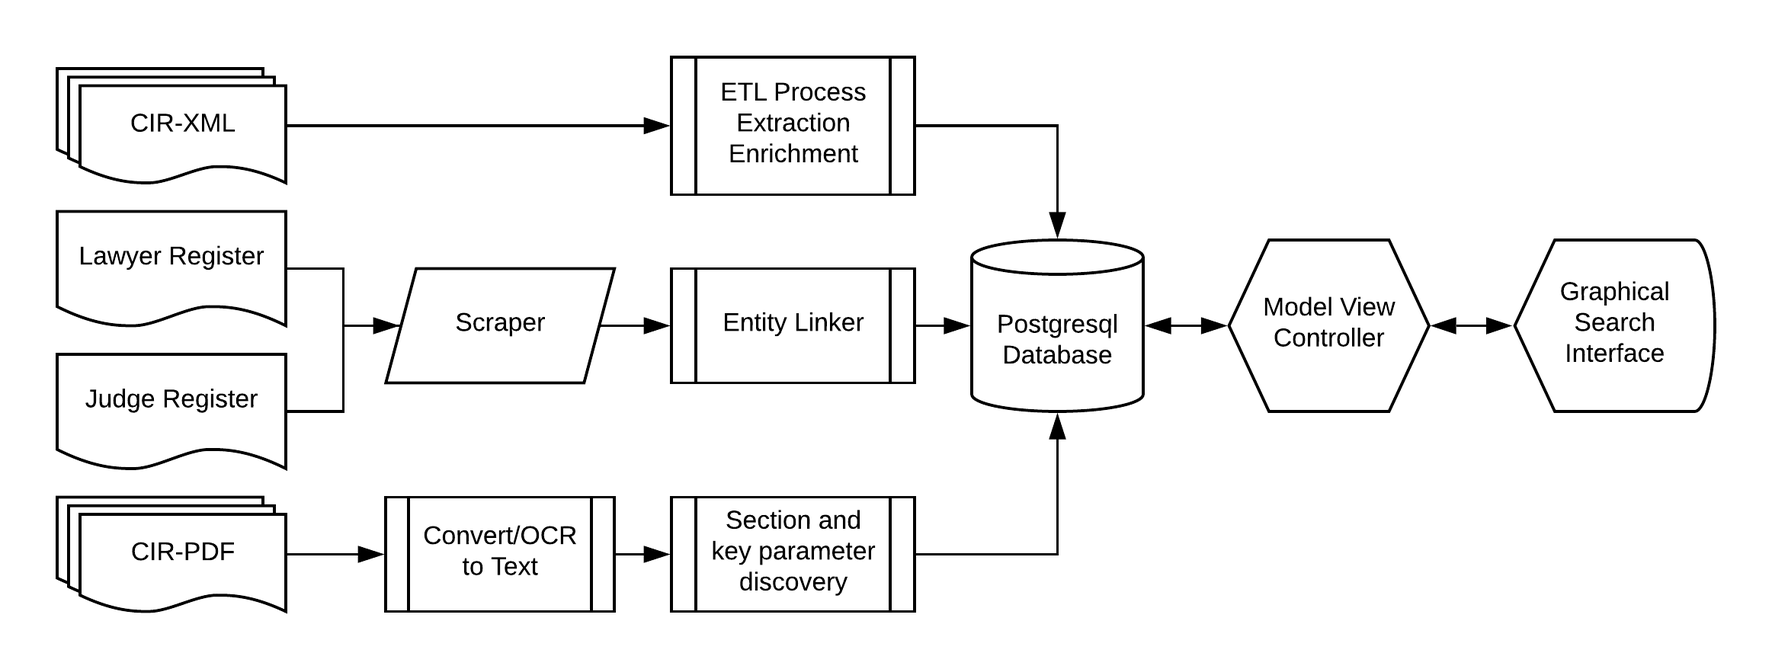
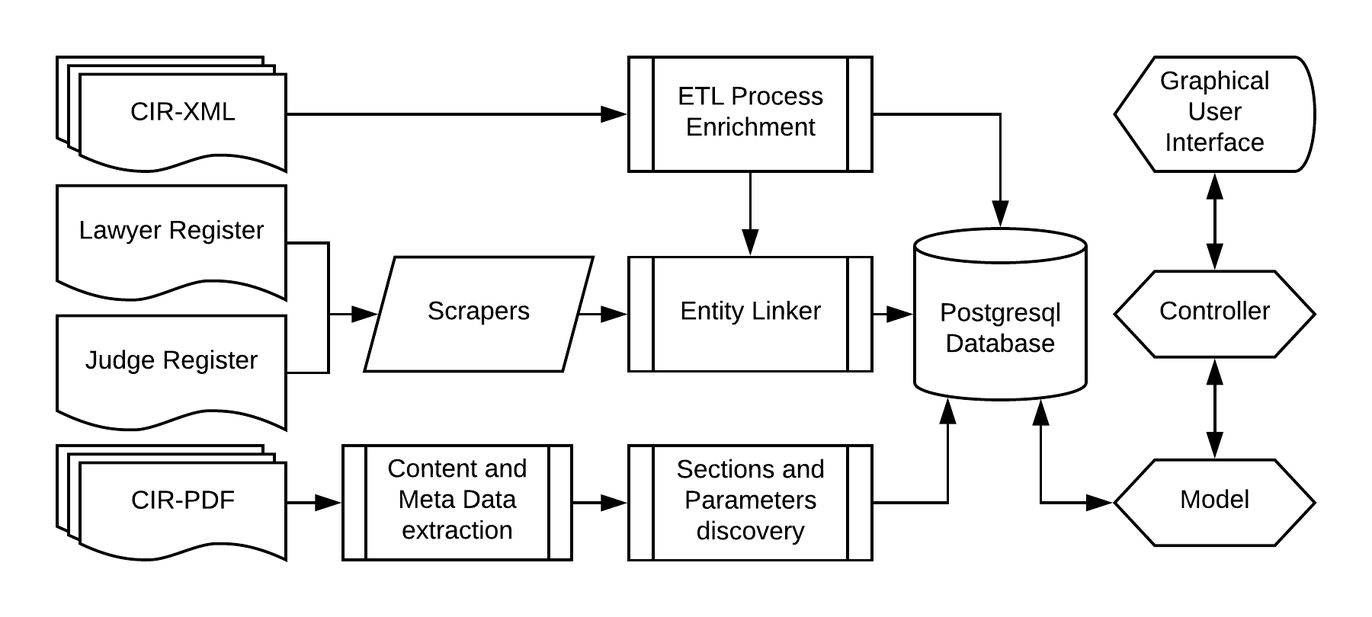
add entity linking

diff --git a/docs/thesis_tex/thesis/methodology.tex b/docs/thesis_tex/thesis/methodology.tex
@@ -1,8 +1,8 @@
 \section{Methodology}
-\subsection{Description of the data}
+\subsection{Description of data sources}
 The data used by the information system is sourced from three public registers:
 \begin{enumerate}
-	\item The Central Insolvency Register \textit{Centraal Insolventie Register}
+	\item The Central Insolvency Register (\textit{Centraal Insolventie Register or CIR})
 	\item The Register of lawyers (\textit{NOvA's Tableau}) 
 	\item The Register of ancillary positions of judges. (\textit{Register van nevenfuncties van rechters}) 
 \end{enumerate}
@@ -11,10 +11,10 @@ The CIR provides the bulk of the data. The other two registers are used for the 
 
 \subsubsection{Central Insolvency Register}
 \paragraph{Introduction}
-The \textit{Centrale Insolventieregister (CIR)} \cite{rechtspraak:1} was initiated in 2005 and contains data of insolvencies, suspension of payments and private debt restructuring. We only focus on the insolvency data. Data is available until 6 months after the ending of the insolvency. 
+The CIR \cite{rechtspraak:1} contains company insolvency data supplied by the courts and the administrators. Courts are obliged to supply the insolvency data and free consultation of thereof according to the insolvency law, article 19 \cite{law:1}. CIR started the register on the 1st of January 2005 and retains case related data until six months after the ending of the insolvency. 
 
 \paragraph{SOAP web service}
-CIR operates a web service using the SOAP 1.2 protocol which returns information in XML format upon HTTP request. Using the web service we can request the new and updated entities of:
+CIR operates a web service using the HTTP SOAP 1.2 protocol which returns information in XML format. Using the web service we can request the new and updated entities of:
 
 \begin{itemize}
 	\item Insolvents
@@ -30,10 +30,10 @@ CIR operates a web service using the SOAP 1.2 protocol which returns information
 \caption{Insolvency entity relations.}
 \end{figure}
 
-The CIR XML data is structured: the entities are connected in the XML response by composition as defined in XSD schemas provided by CIR. Unique identifiers exist for the Insolvent, Publication and Report entities. An ETL (Extract Transform Load) component is build to load these entities into normalized SQL tables.
+The returned XML data is structured: the entities are connected in the XML response by composition as defined in XSD schemas provided by CIR. Unique identifiers exist for the Insolvent, Publication and Report entities and they can easily be stored in normalized SQL tables. 
 
 \paragraph{Database normalization}
-Not all the data is normalized. The entities Judges and Administrators have no identifiers but consist of free text fields for their name (parts). This leads to unwanted duplication as names can be written in many different forms and typos can be introduced, e.g. one judge's name appears as:
+Not all the data is normalized. The entities Judges and Administrators have no identifiers but consist of free text fields for their name parts. This leads to unwanted duplication as names can be written in many different forms and typos can be introduced, e.g. one judge's name appears as:
 
 \begin{itemize}
 \item "mr. W.J. Geurts - de Veld"
@@ -46,26 +46,52 @@ Not all the data is normalized. The entities Judges and Administrators have no i
 \item "W.J.Geurts-de Veld"
 \end{itemize}
 
-We need to define so-called master data for judges and administrators and resolve the duplicated names to the master data records. The two data sources in the sections \ref{NOvA Tableau} and \ref{Nevenfuncties Rechters} are chosen for this purpose.
+We need to define so-called master data for judges and administrators containing the real world entities. The two data sources in the sections \ref{NOvA Tableau} and \ref{Nevenfuncties Rechters} are chosen for this purpose. CIR entity names are first normalized for de-duplication and are subsequently linked to the master data records on their normalized name. 
 
 \paragraph{PDF report web service}
-A second web service operated by CIR provides Administrator Reports in PDF format using a simple HTTP GET request. There are two types of reports: 
+A second web service operated by CIR provides Administrator Reports in PDF format by HTTP request. There are two types of reports: 
 \begin{enumerate}
 \item progress reports
 \item financial attachments
 \end{enumerate}
-Recofa has published templates for both report types\cite{rechtspraak:3}. The reports hold much of the unstructured data.
+Recofa has published templates for both report types\cite{rechtspraak:3}. These reports hold much of the unstructured data.
+
+\paragraph{CIR data contents}
+Table \ref{table:cir_contents} shows the content of the CIR register data as of date [2018-08-12] and the average monthly size of new additions.
+
+\begin{table}[h]
+\caption{Actual number of records and monthly average additions per entity.}
+\centering
+\begin{tabular}{l r r}
+\hline\hline
+Entity & no. of records & monthly add.\\
+\hline
+Insolvent & 17,331 & 280 \\
+Report & 146,865 & 4408 \\
+... progress report & 87,430 &  \\
+... financial attachment. & 56,611 &  \\
+Publication & 37,031 & 1447 \\
+Administrator (distinct) & 2329 & \\
+Judge (distinct) & 451 & \\
+Court & 11 & \\
+\hline
+\end{tabular}
+\label{table:cir_contents}
+\end{table}
+
+The number of current defaults is about the lowest of the century [ref] [graph of declining defaults]
 
 \subsubsection{Register of lawyers, NOvA Tableau}\label{NOvA Tableau}
 
-The NOvA tableau is the official register for lawyers and maintained by the \textit{Nederlandse Orde van Advocaten (NOvA)}\cite{nova:1}. NOvA offers an on-line search form where key word search and filters can be applied to search for a lawyer. By looking at the network traffic we see than the form is powered by a REST API returning JSON data which we can employ directly. This data source is used to collect the master data for Administrators.
+The NOvA tableau is the official register for lawyers and maintained by the \textit{Nederlandse Orde van Advocaten (NOvA)}\cite{nova:1}. Lawyers are obliged to be registered in the tableau by the lawyer's law (\textit{advocatenwet}, article 1 \cite{law:2}). NOvA offers an on-line search form where key word search and filters can be applied to search for a lawyer. This data source is used to collect the master data for Administrators. 
 
-\subsubsection{Register of judges, Nevenfuncties Rechters}\label{Nevenfuncties Rechters}
+\subsubsection{Register of judges, Nevenfuncties van rechters}\label{Nevenfuncties Rechters}
 
-The Register for ancillary positions for judges is made available by \textit{de Rechtspraak}\cite{rechtspraak:2}. It offers an on line form and returns the name, current and historical occupation and ancillary positions. Again, this form is powered by a REST API returning JSON which we can employ directly. This data source is used to collect the master data for Judges.
+The Register for ancillary positions for judges is made available by \textit{de Rechtspraak}\cite{rechtspraak:2}. It offers an on line form and returns the name, current and historical occupation and ancillary positions. This data source is used to collect the master data for Judges.
 
 
-\subsection{Description of the system}
+\subsection{Description of the system and data flow}
+\subsubsection{System components}
 Figure \ref{System overview} gives an overview of the system components for extracting, enriching and integrating the sourced data and making the resulting structured and higher level information available to the user.
 
 \begin{figure}[h]
@@ -73,13 +99,116 @@ Figure \ref{System overview} gives an overview of the system components for extr
 \caption{System overview.}\label{System overview}
 \end{figure}
 
-\paragraph{The ETL process} This component extracts the entities and selected data fields from the XML. The data is enriched and annotated after which it is stored in the Postgresql database. An example of the enrichment are the start and end date of the insolvency which is not directly stated in the insolvency case XML.
+\paragraph{The ETL process and Enrichment} This component extracts the entities with selected data fields from the XML. The data is enriched and annotated after which it is stored in the Postgresql database. An example of the enrichment are the start and end date of the insolvency which are derived from court publications.
 
-\paragraph{The Entity Linker} This component is responsible for linking judges and administrators in CIR to real life entities found in the judge and lawyer registers. It does this by normalization of the CIR names and resolving them to the register entities using similarity functions. Unresolved entities are linked manually to establish complete linkage. Established links are stored in an association table. After an initial run the register scrapers are called upon only when new judge or administrator entries appear in CIR.
+\paragraph{The Entity Linker} This component is responsible for linking judges and administrators in CIR to real life entities found in the judge and lawyer registers. It does this by normalization of the CIR names and resolving them to the register entities using similarity functions. Unresolved entities can be linked manually to guarantee completeness. Established links are stored in an association table. After an initial run, the register scrapers are called upon only when new judges or administrators entries appear in CIR.
 
 \paragraph{PDF processors}
-PDF reports are processed to extract text content and meta data. In a subsequent process the text sections as defined in the progress report and key data parameter are discovered. These fields are available for search later on.
+PDF reports are processed to extract the textual content and meta data. The text sections, as defined in the progress report template, and key data parameter are discovered in a subsequent process. This data is available for search later on.
 
-\paragraph{Model-View-Controller}
-This is a well established pattern of three subcomponents working together. The user operates a graphical interface prototyped in Jupyter notebooks to query the data or interact with data visualisations or tables. This is the view in the MVC component. On user command, the controller asks the model to prepare the data and returns the data to the view.
+\paragraph{Model-View-Controller (MVC)}
+This is a well established pattern of three subcomponents working together for a GUI. The user operates a graphical interface, prototyped in Jupyter notebooks, to query the data or interact with data visualisations or tables. The interface is the View in the MVC component. On user command, the Controller asks the Model to prepare the necessary data and then passes this data to the View to update the interface.
+
+
+\subsection{Implementation challenges}
+\subsubsection{Entity De-duplication, Scraping and Linking}
+\paragraph{Deduplication: normalizing names}
+CIR provides administrator names in four parts: title, initials, middle part and family name. 
+
+\textbf{The initials} were normalized into single characters using periods and no spaces. In Dutch, initials for names like \textit{Theodoor} and \textit{Christiaan} are written with two or three characters as \textit{Th.} or \textit{Chr.}. These names are derived from the Greek where the initial \textit{Th(eta)} for example is written as one character. Initials for double names like \textit{Albert-Jan} may be written as \textit{A-J.} or \textit{A.-J.}. 
+
+\textbf{The middle part}, e.g. 'van der' or 'ter' was sometimes supplied in the middle part field and sometimes in the family name (and sometimes in both). To normalize the middle part it was merged into the family name making sure it did not appear twice.
+
+\textbf{The family name} was stripped from academic and noble (not uncommon in this profession) titles. Misplaced initials and CIR specific comments were removed. Maiden names are connected to the surname with a hyphen and no spaces.
+
+Furthermore, all parts are made lower case, surrounding whitespace characters are stripped, accents are removed and multiple spaces are replaces with a single space. 
+
+De-duplication by normalizing the administrator names reduced the number of distinct administrator names from 2329 to 1559, a 33\% reduction.
+\\\\
+Judge names are provided in a single field. This sometimes leads to initials or a middle name part that is stuck together to the family name and was separated using regexm e.g. in 'C. vanSteenderen' and 'mr. W.J.Geurts-de Veld'. CIR often adds the court between parenthesis which was also removed in the normalization.
+
+De-duplication by normalizing the judge names reduced the number of distinct judge names from 565 to 277, a 51\% reduction.
+
+\paragraph{Administrator name scraping}
+NOvA unfortunately does not provide complete lists of registered lawyers to which we could link the administrators. Instead we link the administrator by using the site's search form. An underlying REST API returning JSON data was discovered which was used instead of the form. The API (or form) can not handle initials or stop words as 'de' and 'van' and only the family name without stop words was used. The best candidate in the search results, which are sorted on the relevance provided by NOvA, is found by (partially) matching the initials until a match is found. The API enables the use of filters and we filter from narrow to broad until a candidate is found, filtering on: 
+\begin{enumerate}
+\item{legal specialism: administrator}
+\item{legal branch: insolvency law}
+\item{no filter}
+\end{enumerate}
+
+NOvA only supplies the actual lawyer register but CIR also lists administrators previously working on a case therefore a substantial amount of administrators cannot be linked. Another website, www.advocatenzoeken.nl that sources data from NOvA but keeps historical data was scraped as well to complement NOvA.
+
+\paragraph{Administrator name linking}
+From the normalized name list we linked 73\% to NOVa registered lawyers and another 18\% administrators from the www.advocatenzoeken.nl site. The remaining 10\% unfound names are linked to a special 'unknown' lawyer.
+
+\begin{table}[h]
+\caption{Administator entity linking results}
+\centering
+\begin{tabular}{l r r r}
+\hline\hline
+Source & no. linked & correct & incorrect\\
+\hline
+NOvA & 1134 & 1133 & 1\\
+AdvocatenZoeken & 280 & 279 & 1 \\
+Not found & 149 &&\\
+\hline
+Total & 1563 & 1412 &\\
+\hline
+\end{tabular}
+\label{table:administrator_linking}
+\end{table}
+
+Correctness is assumed when the names match. When an obvious typo is found in the family name. When the initials either match, or are contained in the master record or are permutated or are missing. 
+
+[discuss not found results: common name, place in name]
+
+\paragraph{Judge name scraping}
+The CIR register for ancillary functions for judges was scraped for judges from courts and higher courts. The total set contains 3691 judges and should be a superset of active case judges. The website was driven by the Angular javascript framework and could not easily be scraped with simple HTTP requests. Selenium was used to mimic user browsing behaviour to invoke the javascript. 
+
+\paragraph{Judge entity linking}
+A judge is linked by to a judge master record with the most similar normalized name where similarity was calculated using the Levensthein or edit distance. 88\% of the normalized names were matched. 4 of the incorrectly 12\% matched names could be set manually and the remaining 8\% was linked to a special 'unknown' judge.
+
+
+\begin{table}[h]
+\caption{Judge entity linking results}
+\centering
+\begin{tabular}{l r r r}
+\hline\hline
+Source & no. linked & correct & incorrect\\
+\hline
+Ancillary positions register & 277 & 246 & 32\\
++Manual lookup of the 32 &   & 10 & -10\\
+\hline
+Total & 277 & 256 & 22\\
+\hline
+\end{tabular}
+\label{table:judge_linking}
+\end{table}
+
+Correctness is defined similar to the administrator normalized name correctness.
+
+[discuss not found (initially) results: maiden name, not a judge anymore]
+
+\subsubsection{PDF content extraction}
+The PDF reports can be split into two types depending on how the PDF was created:
+\begin{enumerate}
+\item Scanned from paper using a scanner or copier.
+\item Converted by software from another format.
+\end{enumerate}
+
+\paragraph{Scanned PDFs}
+Scanned PDFs contain images only. To convert the images to text we used the Ghostscript library for image extraction and the Tesseract OCR engine for the character recognition. Tesseract supports the Dutch language which is paramount to our application. It is very important to supply Tesseract with good quality images. We used the Ghostscript settings of a \emph{tiffgray} output device with a \emph{300 DPI} resolution. 
+
+\paragraph{Converted PDFs}
+Converted PDF content can be extracted with a number of packages such as PDFMiner, PyPDF2, pyPoppler and pdftotext. We chose the latter after comparison because it maintains the layout which is important for section and parameter extraction and being build in C++ it is very fast.
+
+\paragraph{Third type}
+A third type appeared: PDFs that were scanned and subsequently OCR-ed by a copier. They contain both text and images. The OCR quality is often poor. We retried re-OCR-ing the images with Tesseract which solved some errors but introduced others. Meta data about a.o. the scanner type was obtained which could improve post-process text extraction in future work.
+
+
+\subsubsection{PDF report section and parameter extraction}
+[todo]
+
+
 

diff --git a/docs/thesis_tex/thesis/abstract.tex b/docs/thesis_tex/thesis/abstract.tex
@@ -1,11 +1,11 @@
 \begin{abstract}
-When a company is declared bankrupt by the court, a court committee appoints a administrator to settle the bankruptcy. The administrator's task is to cash in company's estate and use it to settle the creditors claims. A court's judge must supervise the administrator in order to to act in the best interest of the creditors.
+When a company is declared bankrupt by the court, a court committee appoints a administrator to settle the bankruptcy. The administrator's task is to cash in the company's estate and use it to settle the creditors claims. A court's judge must supervise the administrator in order to to act in the best interest of the creditors.
 
-The supervisory function of the judge, the conflict of interest between the administrator and creditors and the appointment process of the administrator are processes which have been the subject of research\cite{boluk_2011}, about which media articles\cite{dennis_meneer_2018:1, dennis_meneer_2017:1, jan-hein_strop_2015:1} have appeared and which have led to legal proceedings. The involved parties ask for more transparency and information about these processes. Access for the general public and independent media to this process information could provide an extra check and thus further improvement of processes.
+The supervisory function of the judge, the conflict of interest between the administrator and creditors and the appointment process of the administrator are processes which have been the subject of research\cite{boluk_2011}, about which media articles have appeared \cite{dennis_meneer_2018:1, dennis_meneer_2017:1, jan-hein_strop_2015:1} and which have led to legal proceedings. The involved parties ask for more transparency and information about these processes. Access for the general public and journalists to this process information could provide an extra check and thus further improvement of processes.
 
-The Dutch government started a transparency program in 2005 publishing insolvency data\cite{rechtspraak:1}. It provides an on-line search form to retrieve a single insolvency case and provides open data sources with technical APIs that provide court publications and administrator reports. However, the information from a single insolvency case is limited, the report information is unstructured and not all interested parties can deal with the raw data of the APIs. Instead of open data, there is a need for open analysis to enable an 'armchair audit'\cite{o_leary_2015} of insolvency processes to answer their questions.
+The Dutch government started in 2005 publishing insolvency data\cite{rechtspraak:1} according to the insolvency law \cite{law:1}. It provides an on-line search form to retrieve a single insolvency case and provides open data sources with technical APIs that provide court publications and administrator reports. However, the information from a single insolvency case is limited, the report information is unstructured and not all interested parties can deal with the raw data APIs. Instead of open data, there is a need for open analysis to enable an 'armchair audit'\cite{o_leary_2015} of insolvency processes to answer their questions.
 
-In this thesis a prototype of an information system will be presented that enables the audit of insolvency processes for non-technical stakeholders. The system processes large amounts of structured and unstructured data of insolvency processes using open and publicly available data sources. From this data, the system builds and annotates a fully linked, clean entity structure of administrator reports, court publications, insolvencies, trustees and judges. Unstructured report data is made searchable at multiple levels and process data is uncovered. 
+In this thesis a prototype of an information system will be presented that enables the audit of insolvency processes for non-technical stakeholders. The system processes large amounts of structured and unstructured data of insolvency processes using open and publicly available data sources. From this data, the system builds and annotates a fully linked, clean entity structure of insolvents, administrators, judges, courts as well as administrator reports and court publications. Unstructured administrator report data is made searchable at multiple levels and process data is uncovered. 
 
-We show that the system can provide valuable insights to the interested party who can use a non-technical interface to investigate the insolvency processes and answer specific questions. 
+We describe the implementation challenges and show that the system can provide new insights to the interested party who can use a non-technical interface to investigate the insolvency processes and answer specific questions. 
 \end{abstract}

diff --git a/docs/thesis_tex/thesis/introduction.tex b/docs/thesis_tex/thesis/introduction.tex
@@ -1,31 +1,36 @@
 \section{Introduction}
-We propose an information system on insolvency processes
-- Introduction to the parties involved in an insolvency
-- Definition of the Persona representing the involved parties
-- Information needs of the Persona
+In this thesis we demonstrate an information system that provides better transparency of insolvency processes by taking in large collections of open structured and unstructured government data and that by deriving higher level information, linking entities and applying information retrieval techniques can answer outstanding questions of the different parties involved.
 
+\begin{itemize}
+\item Introduction to the phenomenon of arm chair auditing and the learned lessons.
+\item Introduction to the open data program of the government and for insolvency specific.
+\item Introduction to the parties involved in an insolvency
+\end{itemize}
+
+\subsection{Arm chair auditing}
+[todo]
+\subsection{Open data program of the government}
+[todo]
 \subsection{Parties involved in the insolvency process}
-There are many parties involved in the insolvency process. Directly involved are the the administrator, the insolvent, the judge and the creditors. Indirectly involved or otherwise interested are the organistations of Recofa and Insolad and journalists. 
+There are many parties involved in the insolvency process. Directly involved are the the administrator, the insolvent, the judge and the creditors. Indirectly involved or otherwise interested are a.o. the organisations of Recofa and Insolad and journalists. 
 
 \subsubsection{The Administrator (\textit{De Curator})}
 The administrator's task is to liquidate the bankrupt firm by selling the assets and from the proceeds pay off the creditors. A second task is to investigate the default and see if there is a case of mismanagement or fraud.
 
-\subsubsection{The Insolvent}
+\subsubsection{The Insolvent} (\textit{De Failliet})
 The insolvent is declared bankrupt by a creditor or declared himself bankrupt. He might be interested in continuing the business and would not want to be persecuted for fraud or malpractice.
 
 \subsubsection{The Bankruptcy Judge (\textit{De Rechter-Commissaris})}
 The supervisory judge exercises supervision over the administrator which is appointed by the court and is entitled to grant him or her permissions for certain actions.
 
-\subsubsection{The Creditors}
+\subsubsection{The Creditors}( \textit{De Schuldeisers})
 The creditor has a claim on the insolvent. There is a ranking of creditors from preferred creditors to unsecured creditors.
 
 \subsubsection{Insolad}
 Insolad is the association of lawyers in insolvency law (administrators). It provides up-to-date knowledge on the insolvency practise and the development of laws and regulations in the field.
 
 \subsubsection{\textit{Rechters-Commissarissen Insolventies} (Recofa)}
-Recofa is the consultative body under the council of justice, \textit{raad van de rechtspraak}, specifically for investigative judges working in insolvency law. It sets out policy guidelines for the courts and instructions (e.g. on reporting) for the administrators.
-
-The council of the justice system is tasked with improving the quality and efficacy of the jurisdiction. It performs research and shares research findings. It also supplies IT resources.
+Recofa is the consultative body under the council of justice, \textit{raad van de rechtspraak}, specifically for judges working in insolvency law. It sets out policy guidelines for the courts and instructions (e.g. on reporting) for the administrators. The council of the justice system is tasked with improving the quality and efficacy of the jurisdiction. It performs research and shares research findings. It also supplies IT resources.
 
 \subsubsection{The Investigative Journalist}
 The investigative journalist is interested in informing the public on the balance of powers with the insolvency law and typically writes critically about cases where this balance is disrupted.

diff --git a/docs/thesis_tex/thesis/related_work.tex b/docs/thesis_tex/thesis/related_work.tex
@@ -1,21 +1,14 @@
 \section{Related Work}
-\begin{itemize}
-	\item Open Data within the government and armchair auditing
-	\item Classification using Natural Language Processing
-	\item GUI design
-	\item Open data and Linked Data, Resource Description Framework [optional]
-\end{itemize}
+[todo]
 
 \subsection{Research Questions}
 
 The main research question is:
-\textbf{Is is possible to build a useful, complete and correct structured information system based on unstructured CIR data}
+\textbf{Is is possible to build a useful, complete and correct structured information system based on unstructured CIR data?}
 
-To answer this question we define so-called Persona to represent archetypical users of the information system to answer specific questions. The questions are distilled from the insolvency law, news articles, research papers, court cases [refs]. The system will be useful if it can answer those questions within certain bounds for their correctness and completeness. 
+The information system is useful when it answers questions of the parties involved. We define so-called Persona to represent archetypical users of the information system and define specific questions they have. These questions are distilled from the insolvency law, news articles, research papers, court cases [refs] and interviews.
 
 \subsubsection{Persona}
-
-
 The main Persona are: 
 \begin{itemize}
 \item \textbf{The Judge} representing the side of Recofa, \textit{Raad van de Rechtspraak} and The Bankruptcy Judge (\textit{Rechter-Commissaris})
@@ -99,15 +92,9 @@ The Persona of Creditor is interested in the recovery rate of its claim and the 
 \end{itemize}
 
 \subsubsection{The Journalist}
-The Persona of Journalist is interested in searching for cases on the basis of a faceted search on keywords and indicator ranges. It is also interested on current trends and periodic reports
+The Persona of Journalist is writing an article on a certain insolvency phenomenon. An economic journalist might periodically write the same story on say the number of defaults in the last quarter compares to a previous period, usually for business readers. The investigative journalist writes for a wide audience, therefore the article contains both general trends as well as the personal individual story. For this the investigative journalist needs query functionality to dig for evidence and pull individual records.
 
 \begin{itemize}
-	\item How well does faceted search on progress reports perform
-	\item How many defaults occurred over a recent period
-	\begin{itemize}
-		\item Total number of employees
-		\item Total turnover
-		\item .. per region (using company address)
-	\end{itemize}
-
+	\item J2: (topic: incapable administrators) Which administrators have often been taken of their cases by the judge.
+	\item J1: How many defaults occurred over the last three months compared to a year earlier. [viz:cumulative lines of two periods]
 \end{itemize}

diff --git a/docs/thesis_tex/thesis/main.tex b/docs/thesis_tex/thesis/main.tex
@@ -5,6 +5,13 @@
 \usepackage{graphicx}
 \usepackage{float}
 %\usepackage{cite}
+\usepackage{tcolorbox}
+\usepackage{subcaption}
+\usepackage[colorinlistoftodos]{todonotes} % handig voor commentaar: gebruik \todo{}, zie ftp://ftp.fu-berlin.de/tex/CTAN/macros/latex/contrib/todonotes/todonotes.pdf
+%\usepackage{listings}
+% linenumbering  See https://texblog.org/2012/02/08/adding-line-numbers-to-documents/
+\usepackage{lineno}
+\linenumbers
 
 % Copyright
 \setcopyright{none}
